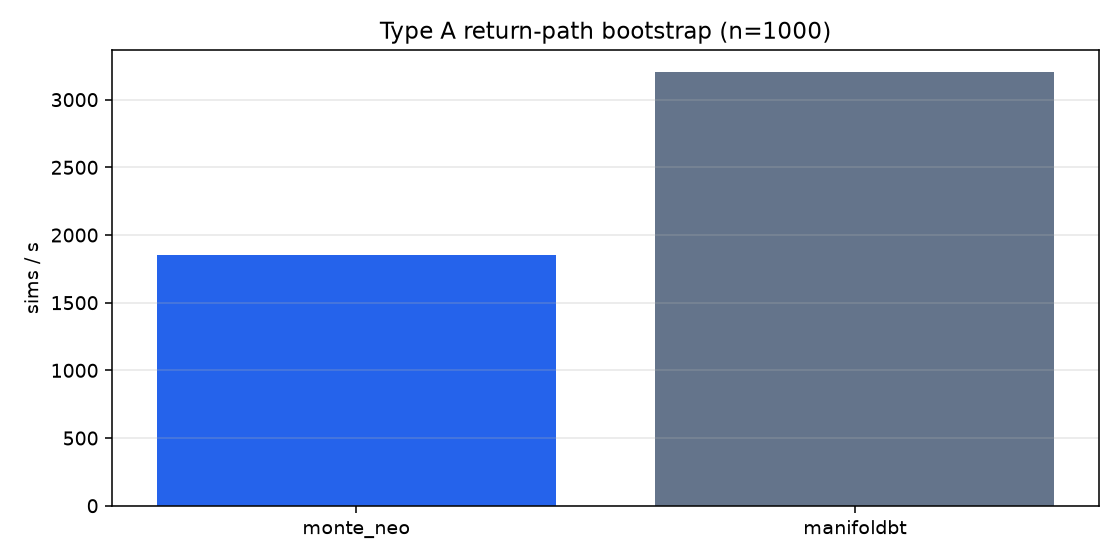
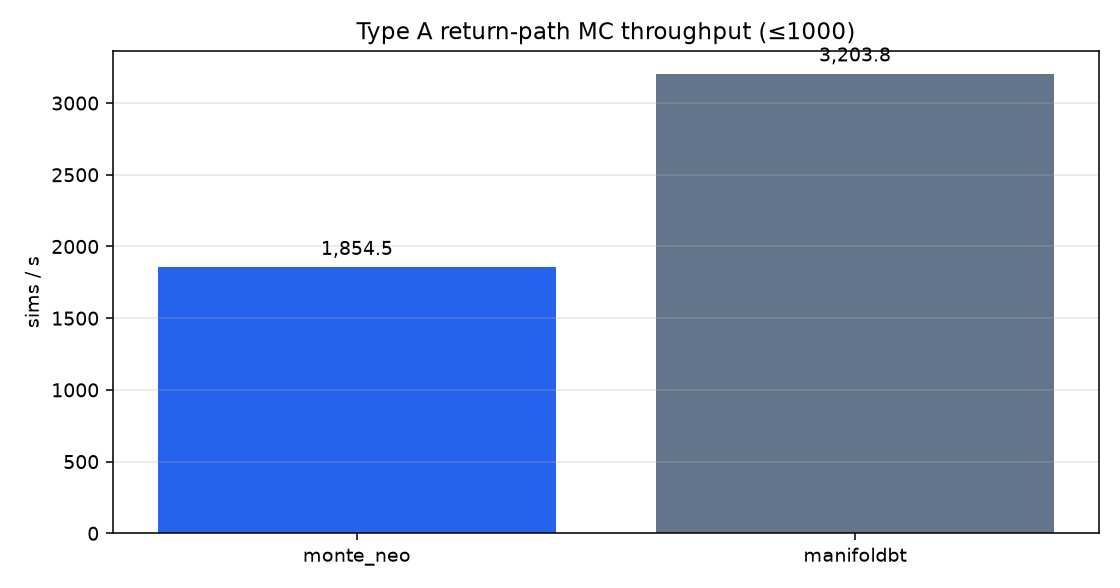
docs: label D001 Type C as kernel vs general-purpose engine (#356)
Clarify Jimmy's feedback in charter, card limitations, and Pages.
Regenerate charts with value labels so ~38 combos/s is not mistaken for zero.

diff --git a/docs/manifold_monte_neo_fair_race/index.html b/docs/manifold_monte_neo_fair_race/index.html
@@ -46,6 +46,11 @@
         <tr><td>Type B — scenario / N-run</td><td>ok</td><td>Metal or CPU fallback</td><td>informational</td></tr>
       </tbody>
     </table>
+    <p>
+      <strong>Type C label:</strong> specialized Numba SMA kernel (Monte-Neo) versus
+      general-purpose <code>run_sweep</code> (ManifoldBT). This is the D001 throughput gate,
+      <em>not</em> a matched fee-aware full-engine bake-off.
+    </p>
     <p>Type A/B/C answer different questions and must not be merged into one speed claim.</p>
   </div>
 
@@ -76,11 +81,21 @@
     </p>
   </div>
 
+  <div class="card note">
+    <h2>Known limitations (Type C honesty)</h2>
+    <ul>
+      <li>Community fan-out / session wait can dominate Manifold wall-clock on Type C.</li>
+      <li>Monte-Neo D001 kernel: long/flat-style SMA grid, scalar PnL-style work — not Manifold’s full expression + fees/equity path.</li>
+      <li>On the Type C PNG, ~40 vs ~46k on a linear axis can look “empty”; value labels show Manifold is ~38–41 combos/s, not zero.</li>
+    </ul>
+  </div>
+
   <div class="card">
     <h2>Claim boundary</h2>
     <p>
       Does <strong>not</strong> claim universal superiority of any engine.
       Does not compare against Manifold CUDA/Pro GPU.
+      Does not claim Type C is an apples-to-apples full-engine comparison.
       Community caps apply (sweep ≤256, MC ≤1000).
       Synthetic data only.
     </p>

diff --git a/scripts/run_manifold_monte_neo_fair_race_d001.py b/scripts/run_manifold_monte_neo_fair_race_d001.py
@@ -51,12 +51,35 @@ def _sha256_file(path: Path) -> str:
     return h.hexdigest()
 
 
-def _bar_chart(path: Path, engines: list[str], vals: list[float], ylabel: str, title: str) -> None:
-    fig, ax = plt.subplots(figsize=(8, 4))
-    ax.bar(engines, vals, color=["#2563eb", "#64748b"])
+def _bar_chart(
+    path: Path,
+    engines: list[str],
+    vals: list[float],
+    ylabel: str,
+    title: str,
+    *,
+    annotate: bool = True,
+) -> None:
+    fig, ax = plt.subplots(figsize=(8, 4.2))
+    bars = ax.bar(engines, vals, color=["#2563eb", "#64748b"])
     ax.set_ylabel(ylabel)
     ax.set_title(title)
     ax.grid(True, axis="y", alpha=0.3)
+    if annotate:
+        ymax = max(vals) if vals else 1.0
+        for bar, val in zip(bars, vals, strict=True):
+            # Place label above bar; for tiny bars vs huge peers, pin near axis.
+            y = bar.get_height()
+            label_y = max(y, ymax * 0.02) if ymax > 0 else y
+            ax.annotate(
+                f"{val:,.1f}",
+                xy=(bar.get_x() + bar.get_width() / 2, label_y),
+                xytext=(0, 4),
+                textcoords="offset points",
+                ha="center",
+                va="bottom",
+                fontsize=10,
+            )
     fig.tight_layout()
     fig.savefig(path, dpi=140)
     plt.close(fig)
@@ -75,7 +98,7 @@ def _write_charts(out: Path, summary: dict) -> list[Path]:
             float(summary["type_c"]["manifoldbt"].get("combos_per_s") or 0),
         ],
         "combos / s",
-        "Type C sweep throughput (≤256, synthetic 50k bars)",
+        "Type C: specialized Numba kernel vs general-purpose run_sweep",
     )
     paths.append(p)
     p = out / "type_a_sims_per_s.png"

diff --git a/docs/protocols/MANIFOLD_MONTE_NEO_FAIR_RACE_D001_PREREG_CHARTER.md b/docs/protocols/MANIFOLD_MONTE_NEO_FAIR_RACE_D001_PREREG_CHARTER.md
@@ -23,9 +23,15 @@ This protocol does **not** claim universal superiority of C++/Metal over Rust.
 
 | Type | Meaning | Manifold peer | Monte-Neo peer |
 |------|---------|---------------|----------------|
-| C | Parameter sweep ≤256 | `bt.run_sweep` | `fused_sma_sweep` / fair_race Type C |
+| C | Parameter sweep ≤256 | `bt.run_sweep` (general-purpose engine) | specialized Numba fused SMA kernel (`fused_sma_sweep` / fair_race Type C) |
 | A | Return-path MC ≤1000 | `bt.plot.monte_carlo` bootstrap timing | `return_path_bootstrap` on same returns |
 | B | Scenario re-backtest ≤1000 | N× independent `bt.run` on same bars (throughput proxy) | Metal/MLX scenario batch |
+
+**Type C work mismatch (explicit label):** this lane compares a **specialized Numba
+kernel** (Monte-Neo) against a **general-purpose sweep engine** (ManifoldBT
+`run_sweep`: expression eval, next-bar fills, fees/equity/metrics path). It is a
+**throughput gate under D001**, not an apples-to-apples full-engine bake-off.
+A matched fee-aware engine comparison requires a separate protocol.
 
 ## Acceptance gates (frozen before outcome inspection)
 
@@ -56,5 +62,13 @@ Pinned Monte-Neo branch for race helpers: `race/m1-metal-phase2` @ `922631404496
 
 - Manifold CUDA / Pro GPU is not a peer on Apple Silicon.
 - Community sweep session caps: runner uses fresh process semantics where needed.
+- Community fan-out / session wait can dominate Manifold wall-clock on Type C;
+  absolute combos/s are host- and tier-sensitive.
+- Type C is specialized Numba kernel vs general-purpose `run_sweep` (not a full
+  engine bake-off). Monte-Neo D001 kernel path: long/flat-style SMA grid, close
+  fills / scalar PnL style work — not Manifold’s full expression + fees/equity
+  checklist.
 - Type A and Type B answer different scientific questions.
 - Synthetic data only (no venue rights issues).
+- Type C chart uses linear scale: ~40 vs ~46k combos/s makes the Manifold bar
+  appear near-empty; value labels are required so the bar is not mistaken for zero.

diff --git a/artifacts/manifold_monte_neo_fair_race_d001/sanitized_report.md b/artifacts/manifold_monte_neo_fair_race_d001/sanitized_report.md
@@ -16,11 +16,16 @@
 
 ## Type C — sweep (gate)
 
+**Label:** specialized Numba SMA kernel (Monte-Neo) vs general-purpose `run_sweep`
+(ManifoldBT). Throughput gate under D001 — not a matched full-engine bake-off.
+
 | engine | combos/s | ok |
 |---|---:|---|
 | monte_neo | 45977.35004482914 | True |
 | manifoldbt | 37.95973972666864 | True |
 | gate_pass | | True |
+
+> Charts regenerated 2026-09-13 with value labels; throughput numbers unchanged.
 
 ## Type A — return-path bootstrap
 
